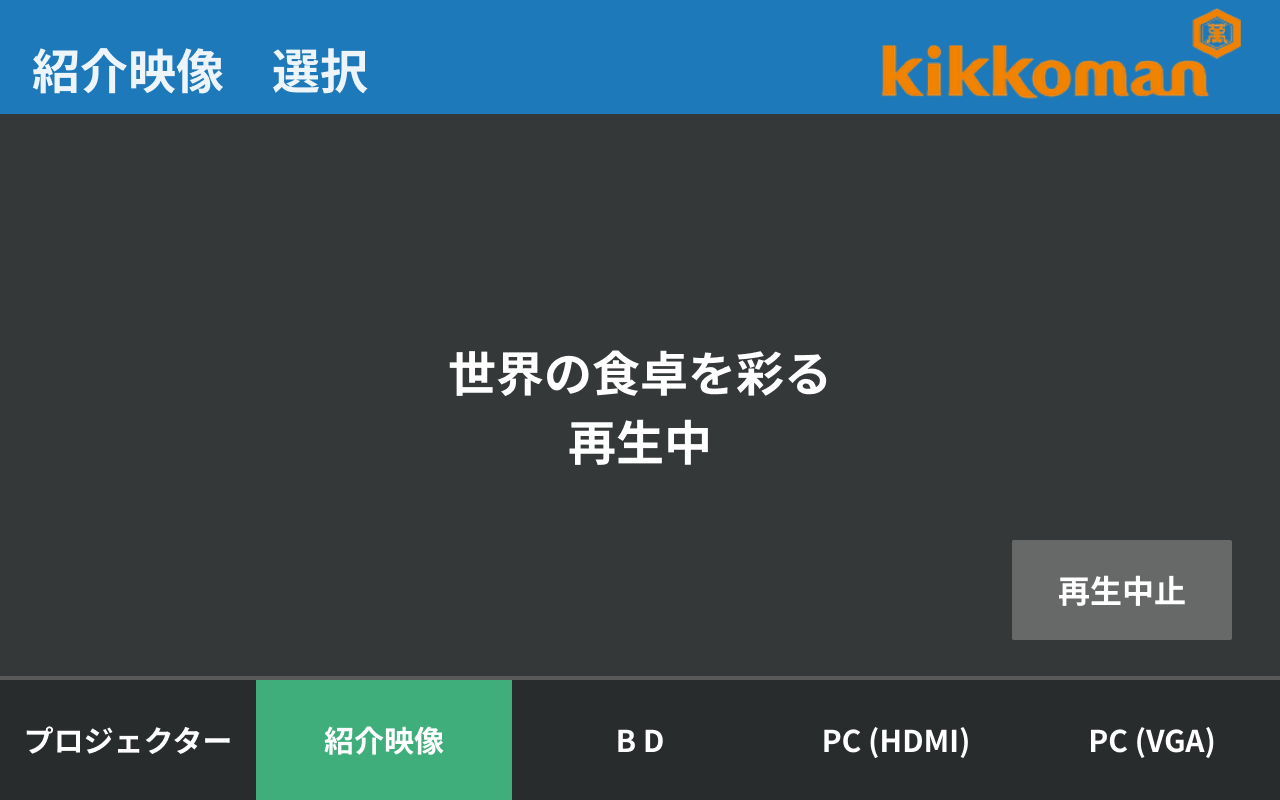
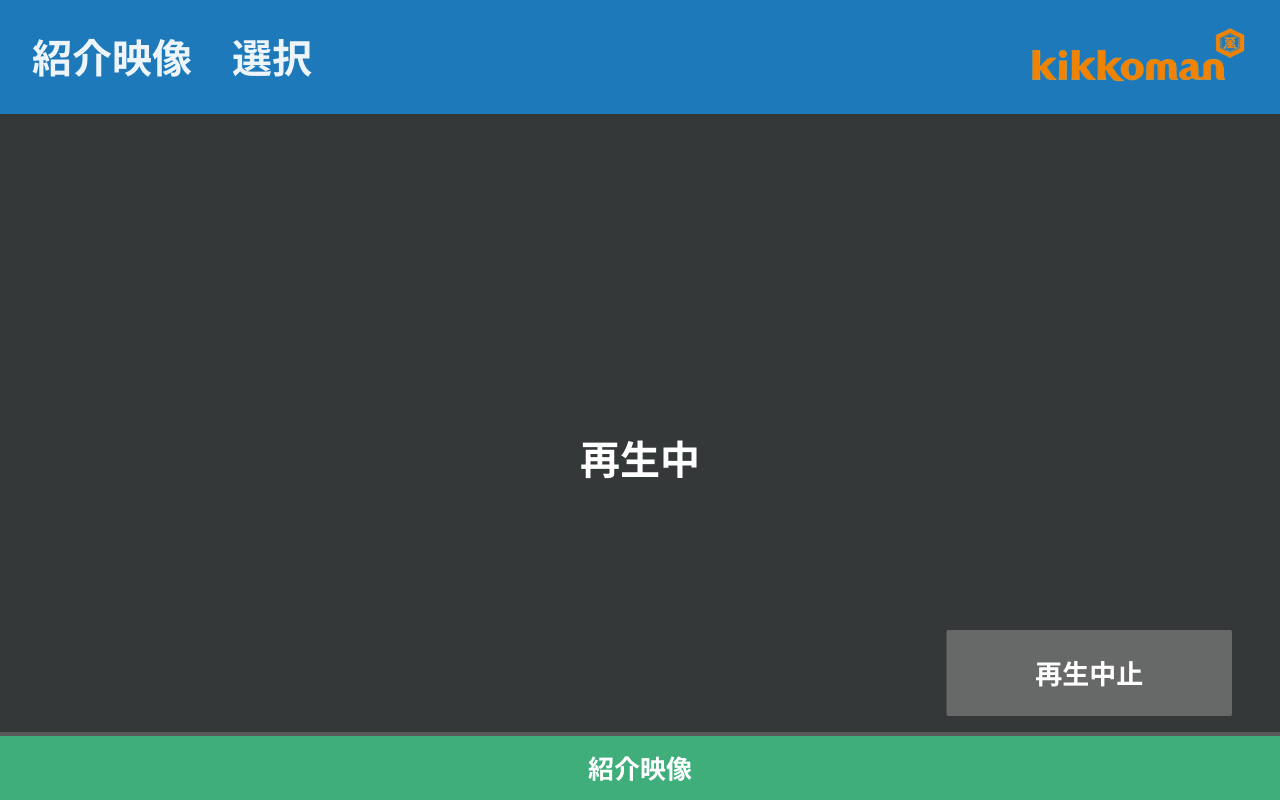
Changed design

diff --git a/app.js b/app.js
@@ -19,8 +19,18 @@
 
   var pages = {
     projector: { image: "assets/projector-control-panel.png", alt: "プロジェクター操作" },
-    intro: { image: "assets/intro-video-selection.png?v=20260903-1", alt: "紹介映像 選択" },
-    playback: { image: "assets/video-playback.png", alt: "紹介映像 再生中" },
+    intro: {
+      image: "assets/intro-video-selection.png?v=20261006-3",
+      alt: "紹介映像 選択",
+      navigationY: 736,
+      navigationHeight: 64
+    },
+    playback: {
+      image: "assets/video-playback.png?v=20261006-2",
+      alt: "紹介映像 再生中",
+      navigationY: 736,
+      navigationHeight: 64
+    },
     bdSource: { image: "assets/bd-simple-control.png", alt: "ブルーレイディスク 操作" },
     bdDisc: { image: "assets/bluray-disc-control.png", alt: "ブルーレイディスク 再生操作" },
     bdNavigation: { image: "assets/bluray-navigation.png", alt: "ブルーレイディスク メニュー操作" },
@@ -68,6 +78,23 @@
 
   var availableNavigation = getAvailableNavigation();
 
+  function getInitialNavigation() {
+    var requestedNavigationId = typeof uiConfig.defaultTab === "string" ? uiConfig.defaultTab.trim() : "";
+    var initialNavigation = availableNavigation[0];
+    for (var i = 0; i < availableNavigation.length; i += 1) {
+      if (availableNavigation[i].id === requestedNavigationId) {
+        initialNavigation = availableNavigation[i];
+        break;
+      }
+    }
+    if (requestedNavigationId && initialNavigation.id !== requestedNavigationId) {
+      console.warn("UI configuration warning: defaultTab " + requestedNavigationId + " is unavailable; using " + initialNavigation.id + ".");
+    }
+    return initialNavigation;
+  }
+
+  var initialNavigation = getInitialNavigation();
+
   function isNavigationAvailable(navigationId) {
     var isAvailable = false;
     for (var i = 0; i < availableNavigation.length; i += 1) {
@@ -111,8 +138,7 @@
   var stage = document.getElementById("stage");
   var panelImage = document.getElementById("panel-image");
   var buttonLayer = document.getElementById("hotspots");
-  var currentPage = availableNavigation[0].page;
-  var selectedPlaybackImage = "assets/video-playback-01.png";
+  var currentPage = initialNavigation.page;
   var selectedPlaybackLabel = introButtons[0].ja;
   var selectedPlaybackIndex = 0;
   var isVideoPlaying = false;
@@ -1273,20 +1299,6 @@
       image.src = pages[pageNames[i]].image;
       preloadedPageImages.push(image);
     }
-
-    if (isNavigationAvailable("intro")) {
-      for (var playbackIndex = 0; playbackIndex < introButtons.length; playbackIndex += 1) {
-        var playbackImage = new Image();
-        playbackImage.src = getPlaybackImagePath(playbackIndex);
-        preloadedPageImages.push(playbackImage);
-      }
-    }
-  }
-
-  function getPlaybackImagePath(index) {
-    var number = index + 1;
-    var paddedNumber = number < 10 ? "0" + number : String(number);
-    return "assets/video-playback-" + paddedNumber + ".png";
   }
 
   function resizeStage() {
@@ -1444,6 +1456,9 @@
   }
 
   function addNavigation() {
+    var page = pages[currentPage];
+    var navigationY = page.navigationY || 680;
+    var navigationHeight = page.navigationHeight || 120;
     var navigationCount = availableNavigation.length;
     for (var i = 0; i < navigationCount; i += 1) {
       (function (item, itemIndex) {
@@ -1453,9 +1468,9 @@
           label: item.label,
           className: "nav-button" + (activeNavigation[currentPage] === item.id ? " active" : ""),
           x: itemX,
-          y: 680,
+          y: navigationY,
           width: nextItemX - itemX,
-          height: 120,
+          height: navigationHeight,
           content: item.label,
           onClick: function () {
             var isNewSection = activeNavigation[currentPage] !== item.id;
@@ -1522,28 +1537,28 @@
   }
 
   function addIntroControls() {
-    var columns = [48, 348, 647, 947];
-    var widths = [285, 285, 286, 285];
-    var rows = [134, 224, 314, 404, 494, 584];
+    var columns = [49, 349, 648, 948];
+    var rows = [131, 231, 331, 431, 531, 631];
 
     for (var index = 0; index < introButtons.length; index += 1) {
       (function (item, itemIndex) {
         var column = itemIndex % 4;
         var row = Math.floor(itemIndex / 4);
+        var className = "intro-button" + (item.spare ? " spare-button" : 16 <= itemIndex ? " category-button" : "");
+        if (11 <= item.ja.length) className += " compact-title";
         addButton({
           label: item.ja,
-          className: "intro-button" + (item.spare ? " spare-button" : 16 <= itemIndex ? " category-button" : ""),
+          className: className,
           x: columns[column],
           y: rows[row],
-          width: widths[column],
-          height: 76,
+          width: 283,
+          height: 84,
           contentLines: [
             { className: "ja", text: item.ja },
             { className: "en", text: item.en }
           ],
           onClick: function () {
             selectedPlaybackIndex = itemIndex;
-            selectedPlaybackImage = getPlaybackImagePath(itemIndex);
             selectedPlaybackLabel = item.ja;
             isVideoPlaying = true;
             var prefix = udpCommand("videoPrefix", "PLAY_");
@@ -1560,22 +1575,19 @@
   function addPlaybackControls() {
     var playbackLabel = document.createElement("div");
     var playbackTitle = document.createElement("span");
-    var playbackStatus = document.createElement("span");
     playbackLabel.className = "playback-label";
     playbackLabel.setAttribute("aria-hidden", "true");
     playbackTitle.textContent = selectedPlaybackLabel;
-    playbackStatus.textContent = "再生中";
     playbackLabel.appendChild(playbackTitle);
-    playbackLabel.appendChild(playbackStatus);
     buttonLayer.appendChild(playbackLabel);
 
     addButton({
       label: "再生中止",
       className: "playback-stop",
-      x: 1012,
-      y: 540,
-      width: 220,
-      height: 100,
+      x: 947,
+      y: 630,
+      width: 285,
+      height: 86,
       content: "再生中止",
       onClick: function () {
         sendUdpCommand(udpCommand("videoStop", "STOP_VIDEO"));
@@ -1634,7 +1646,7 @@
     var page = pages[pageName];
     if (!page) return;
     currentPage = pageName;
-    panelImage.src = pageName === "playback" ? selectedPlaybackImage : page.image;
+    panelImage.src = page.image;
     panelImage.alt = pageName === "playback" ? selectedPlaybackLabel + " 再生中" : page.alt;
     buttonLayer.innerHTML = "";
     addNavigation();

diff --git a/tools/ui-config-self-test.js b/tools/ui-config-self-test.js
@@ -35,7 +35,7 @@ function createElementStub() {
   return element;
 }
 
-function createPanel(tabConfig, switcherConfig) {
+function createPanel(tabConfig, switcherConfig, defaultTab) {
   var elements = {
     stage: createElementStub(),
     "panel-image": createElementStub(),
@@ -75,7 +75,7 @@ function createPanel(tabConfig, switcherConfig) {
       BRIGHTSIGN_PROJECTOR_CONFIG: {},
       BRIGHTSIGN_SWITCHER_CONFIG: switcherConfig || {},
       BRIGHTSIGN_UDP_CONFIG: {},
-      BRIGHTSIGN_UI_CONFIG: { tabs: tabConfig },
+      BRIGHTSIGN_UI_CONFIG: { defaultTab: defaultTab, tabs: tabConfig },
       addEventListener: function () {},
       clearInterval: function () {},
       clearTimeout: function () {},
@@ -103,12 +103,24 @@ assert.strictEqual(configuredNavigation[0].style.left, "0px");
 assert.strictEqual(configuredNavigation[0].style.width, "640px");
 assert.strictEqual(configuredNavigation[1].style.left, "640px");
 assert.strictEqual(configuredNavigation[1].style.width, "640px");
-assert.strictEqual(configuredPanel.elements["panel-image"].src, "assets/intro-video-selection.png?v=20260903-1");
+assert.strictEqual(configuredPanel.elements["panel-image"].src, "assets/intro-video-selection.png?v=20261006-3");
+assert.strictEqual(configuredNavigation[0].style.top, "736px");
+assert.strictEqual(configuredNavigation[0].style.height, "64px");
+
+var defaultTabPanel = createPanel(
+  { projector: true, intro: true, bd: false, hdmi: false, vga: false },
+  {},
+  "intro"
+);
+assert.strictEqual(defaultTabPanel.elements["panel-image"].src, "assets/intro-video-selection.png?v=20261006-3");
+assert.strictEqual(navigationButtons(defaultTabPanel)[1].classList.contains("active"), true);
 
 configuredNavigation[1].dispatch("click");
 configuredNavigation = navigationButtons(configuredPanel);
 assert.strictEqual(configuredPanel.elements["panel-image"].src, "assets/pc-hdmi-control.png");
 assert.strictEqual(configuredNavigation[1].classList.contains("active"), true);
+assert.strictEqual(configuredNavigation[1].style.top, "680px");
+assert.strictEqual(configuredNavigation[1].style.height, "120px");
 
 var fallbackPanel = createPanel({ projector: false, intro: false, bd: false, hdmi: false, vga: false });
 var fallbackNavigation = navigationButtons(fallbackPanel);

diff --git a/tools/multitouch-self-test.js b/tools/multitouch-self-test.js
@@ -152,6 +152,12 @@ introNavigationButton.dispatch("click");
 
 var introButtons = elements.hotspots.querySelectorAll(".intro-button");
 assert.strictEqual(introButtons.length, 24, "Expected introduction-video buttons");
+assert.strictEqual(introButtons[0].style.left, "49px");
+assert.strictEqual(introButtons[0].style.top, "131px");
+assert.strictEqual(introButtons[0].style.width, "283px");
+assert.strictEqual(introButtons[0].style.height, "84px");
+assert.strictEqual(introButtons[0].classList.contains("compact-title"), false);
+assert.strictEqual(introButtons[1].classList.contains("compact-title"), true);
 
 introButtons[0].dispatch("pointerdown", { pointerId: 1, pointerType: "touch", buttons: 1 });
 introButtons[1].dispatch("pointerdown", { pointerId: 2, pointerType: "touch", buttons: 1 });
@@ -169,6 +175,17 @@ clock.advance(519);
 assert.strictEqual(sentPackets.length, 0, "Accepted command must keep its normal feedback delay");
 clock.advance(1);
 assert.deepStrictEqual(sentPackets, [{ payload: "PLAY_01", port: 5001, ipAddress: "192.0.2.10" }]);
+assert.strictEqual(elements["panel-image"].src, "assets/video-playback.png?v=20261006-2");
+var playbackLabel = elements.hotspots.querySelectorAll(".playback-label")[0];
+assert.strictEqual(playbackLabel.children.length, 1, "Playback must overlay only the selected title");
+assert.strictEqual(playbackLabel.children[0].textContent, "しょうゆの不思議");
+var playbackStop = elements.hotspots.querySelectorAll(".playback-stop")[0];
+assert.strictEqual(playbackStop.style.left, "947px");
+assert.strictEqual(playbackStop.style.top, "630px");
+assert.strictEqual(playbackStop.style.width, "285px");
+assert.strictEqual(playbackStop.style.height, "86px");
+assert.strictEqual(elements.hotspots.querySelectorAll(".nav-button")[0].style.top, "736px");
+assert.strictEqual(elements.hotspots.querySelectorAll(".nav-button")[0].style.height, "64px");
 clock.advance(260);
 assert.strictEqual(introButtons[0].classList.contains("pressed"), false, "Accepted button must clear red feedback");
 assert.strictEqual(introButtons[1].classList.contains("pressed"), false, "Ignored button must remain clear");

diff --git a/styles.css b/styles.css
@@ -143,18 +143,22 @@ button {
   display: block;
   max-width: 96%;
   overflow: hidden;
-  font-size: 20px;
+  font-size: 24px;
   font-weight: 700;
   line-height: 1.25;
   text-overflow: ellipsis;
   white-space: nowrap;
 }
 
+.intro-button.compact-title .ja {
+  font-size: 20px;
+}
+
 .intro-button .en {
   display: block;
   color: #fff;
   font-family: Arial, sans-serif;
-  font-size: 14px;
+  font-size: 16px;
   font-weight: 400;
   line-height: 1.2;
   white-space: nowrap;
@@ -167,16 +171,13 @@ button {
 
 .playback-label {
   position: absolute;
-  top: 320px;
+  top: 375px;
   left: 320px;
   display: flex;
   width: 640px;
-  height: 170px;
+  height: 53px;
   align-items: center;
   justify-content: center;
-  flex-direction: column;
-  gap: 8px;
-  background: #343839;
   color: #fff;
   font-size: 42px;
   font-weight: 700;
@@ -188,9 +189,6 @@ button {
 .playback-label span {
   display: block;
   width: 100%;
-}
-
-.playback-label span:first-child {
   white-space: nowrap;
 }
 
@@ -278,7 +276,10 @@ button {
 
 .page-transition-overlay {
   position: absolute;
-  inset: 0;
+  top: 0;
+  right: 0;
+  bottom: 64px;
+  left: 0;
   z-index: 10;
   overflow: hidden;
   pointer-events: none;
@@ -319,7 +320,7 @@ button {
 }
 
 .page-transitioning > #panel-image,
-.page-transitioning > #hotspots {
+.page-transitioning > #hotspots > :not(.nav-button) {
   will-change: opacity;
   transform: translateZ(0);
   backface-visibility: hidden;

diff --git a/index.html b/index.html
@@ -5,13 +5,13 @@
     <meta name="viewport" content="width=device-width, initial-scale=1, maximum-scale=1, user-scalable=no">
     <meta name="theme-color" content="#303435">
     <title>シアター操作パネル — BrightSign Test</title>
-    <link rel="stylesheet" href="styles.css?v=20260928-3">
+    <link rel="stylesheet" href="styles.css?v=20261006-4">
     <script src="udp-config.js?v=20260825-7"></script>
     <script src="projector-config.js?v=20260831-1"></script>
     <script src="switcher-config.js?v=20260825-6"></script>
     <script src="bluray-config.js?v=20260901-1"></script>
-    <script src="ui-config.js?v=20260928-1"></script>
-    <script src="app.js?v=20260928-4" defer></script>
+    <script src="ui-config.js?v=20261006-1"></script>
+    <script src="app.js?v=20261006-5" defer></script>
   </head>
   <body>
     <main id="stage" aria-label="シアター操作パネル・テストアプリ">

diff --git a/ui-config.js b/ui-config.js
@@ -4,13 +4,14 @@
 // tabs are set to false, the application keeps the projector tab available so
 // the panel cannot start with an unusable blank screen.
 window.BRIGHTSIGN_UI_CONFIG = {
+  defaultTab: "intro",
   tabs: {
-    projector: true,
+    projector: false,
     intro: true,
-    bd: true,
+    bd: false,
     // Optional legacy tab with Play/Stop and menu-navigation controls.
     bdControls: false,
-    hdmi: true,
-    vga: true
+    hdmi: false,
+    vga: false
   }
 };

diff --git a/udp-config.js b/udp-config.js
@@ -3,7 +3,7 @@
 // safe to test. Commands are UTF-8 text packets with no line ending.
 window.BRIGHTSIGN_UDP_CONFIG = {
   enabled: true,
-  ipAddress: "192.180.10.111",
+  ipAddress: "192.168.0.2",
   port: 5001,
   receiveEnabled: true,
   receiveIpAddress: "0.0.0.0",
